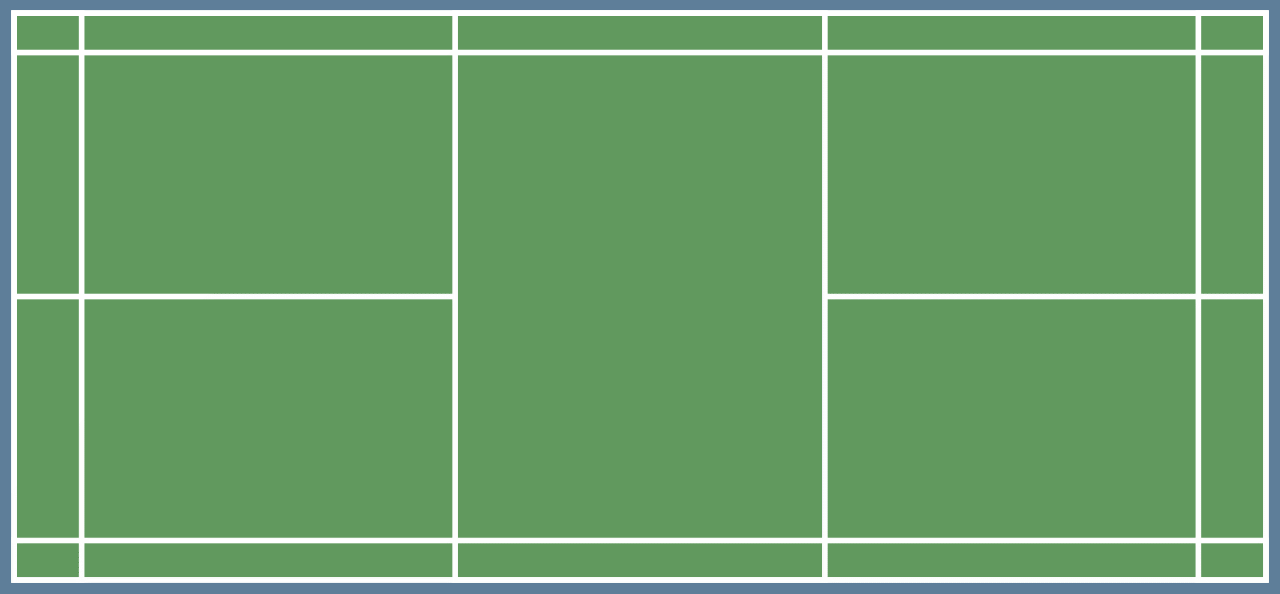
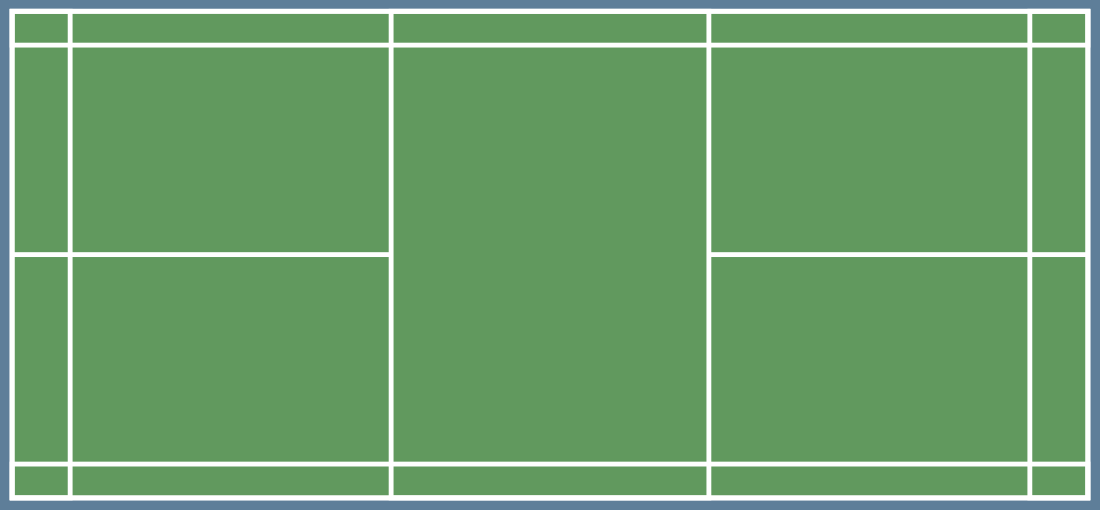
Ajustement taille images

diff --git a/angular/src/app/components/court-up-down/court-up-down.scss b/angular/src/app/components/court-up-down/court-up-down.scss
@@ -1,7 +1,7 @@
 .court {
   position: relative;
-  width: 910px;
-  height: 760px;
+  width: 814px;
+  height: 680px;
 
   background-image: url("../../../assets/img/background/court-up-down.png");
   background-repeat: no-repeat;
@@ -37,52 +37,52 @@
   justify-content: center;
   align-items: center;
   position: absolute;
-  left: 180px;
-  top: 301px;
+  left: 131px;
+  top: 270px;
   width: 537px;
-  height: 160px;
+  height: 142px;
 }
 
 .player1 {
-  left: 397px;
+  left: 332px;
   top: 20px;
 }
 
 .player1.server,
 .player1.receiver {
-  left: 397px;
+  left: 338px;
   top: 105px;
 }
 
 .player2 {
-  left: 132px;
+  left: 101px;
   top: 20px;
 }
 
 .player2.server,
 .player2.receiver {
-  left: 132px;
+  left: 96px;
   top: 105px;
 }
 
 .player3 {
-  left: 430px;
-  top: 500px;
+  left: 379px;
+  top: 436px;
 }
 
 .player3.server,
 .player3.receiver {
-  left: 430px;
-  top: 415px;
+  left: 364px;
+  top: 347px;
 }
 
 .player4 {
-  left: 110px;
-  top: 500px;
+  left: 70px;
+  top: 436px;
 }
 
 .player4.server,
 .player4.receiver {
-  left: 110px;
-  top: 415px;
+  left: 78px;
+  top: 347px;
 }

diff --git a/angular/src/app/components/court-left-right/court-left-right.scss b/angular/src/app/components/court-left-right/court-left-right.scss
@@ -1,7 +1,7 @@
 .court {
   position: relative;
-  width: 1280px;
-  height: 594px;
+  width: 1100px;
+  height: 510px;
 
   background-image: url("../../../assets/img/background/court-left-right.png");
   background-repeat: no-repeat;
@@ -27,8 +27,8 @@
 .player3,
 .player4 {
   position: absolute;
-  width: 367px;
-  height: 237px;
+  width: 315px;
+  height: 204px;
 }
 
 .arrow {
@@ -37,28 +37,28 @@
   align-items: center;
 
   position: absolute;
-  left: 458px;
-  top: 56px;
-  width: 364px;
-  height: 481px;
+  left: 394px;
+  top: 48px;
+  width: 311px;
+  height: 413px;
 }
 
 .player1 {
-  left: 85px;
-  top: 56px;
+  left: 73px;
+  top: 48px;
 }
 
 .player2 {
-  left: 85px;
-  top: 300px;
+  left: 73px;
+  top: 257px;
 }
 
 .player3 {
-  left: 828px;
-  top: 56px;
+  left: 712px;
+  top: 48px;
 }
 
 .player4 {
-  left: 828px;
-  top: 300px;
+  left: 712px;
+  top: 257px;
 }

diff --git a/angular/src/app/app.component.scss b/angular/src/app/app.component.scss
@@ -1,6 +1,5 @@
 .content {
   height: 100vh;
-  padding: 0.5em;
 }
 
 .live {

diff --git a/angular/src/app/components/live/live.scss b/angular/src/app/components/live/live.scss
@@ -12,5 +12,4 @@
 .live-up-down {
   display: grid;
   grid-template-columns: 5fr 1fr;
-  padding-top: 1em;
 }